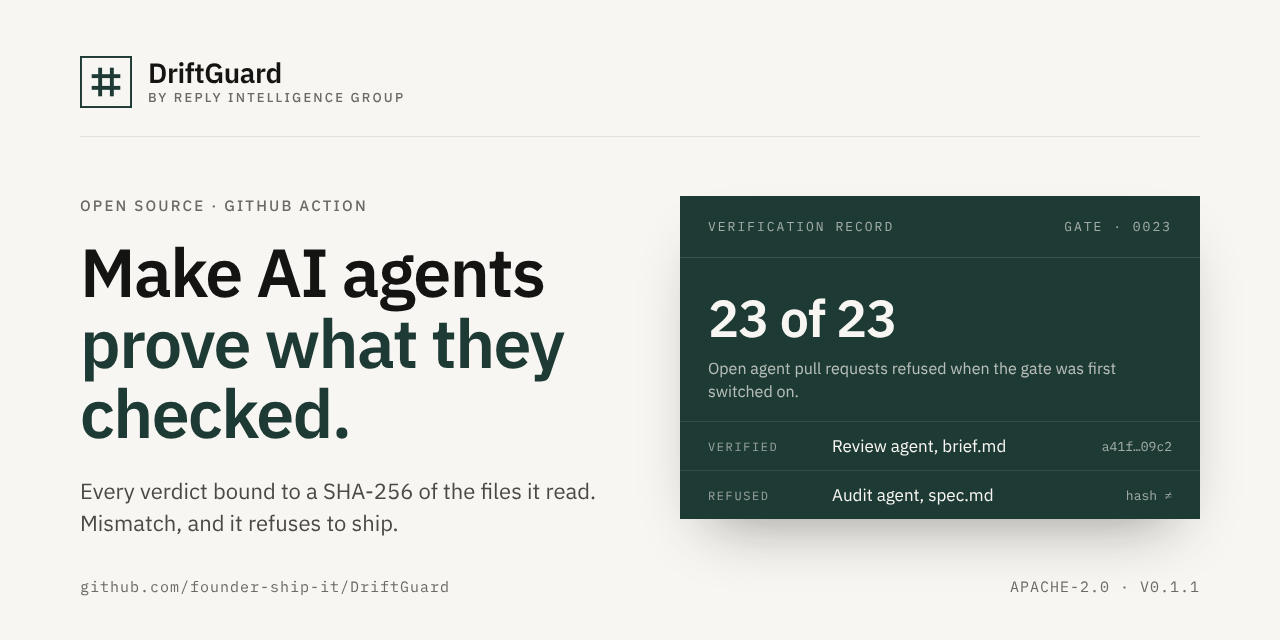
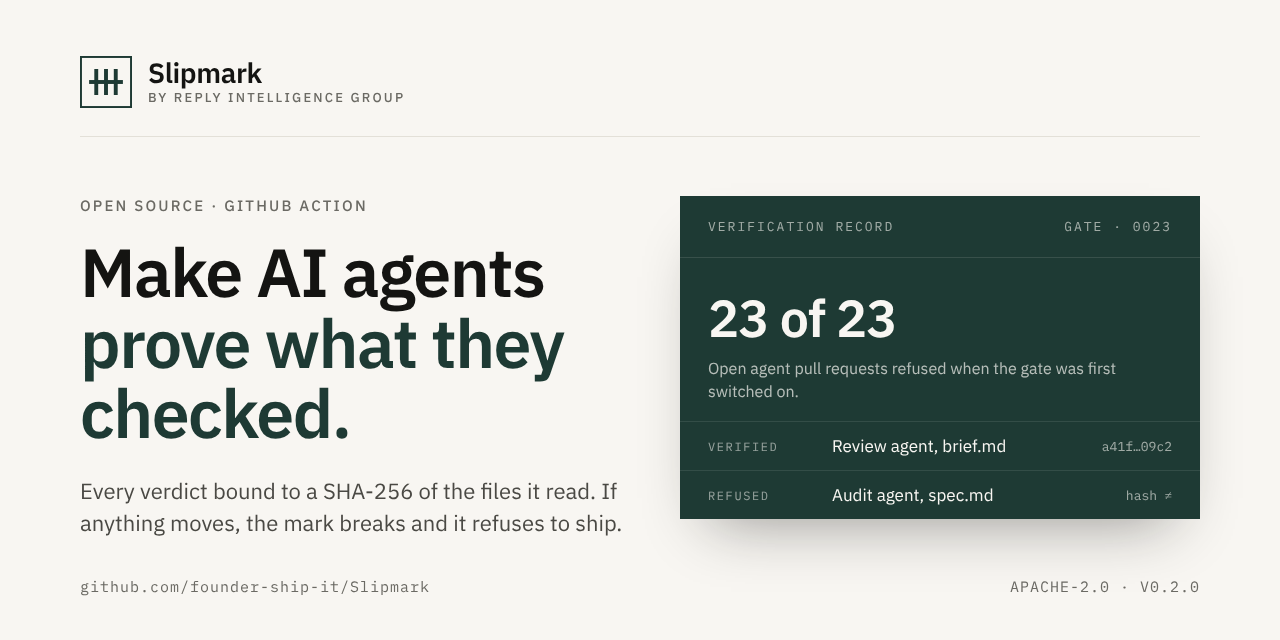
v0.2.0: rename DriftGuard to Slipmark

diff --git a/src/cli.ts b/src/cli.ts
@@ -1,10 +1,10 @@
 #!/usr/bin/env node
 /**
- * Minimal DriftGuard CLI.
+ * Minimal Slipmark CLI.
  *
- *   driftguard <pack.ts|pack.js> [--git <git-context.json>] [--prompts]
- *   driftguard attest --by <agent> --verdict <pass|fail> --subject <file> [--subject <file>...] [--note "..."] [--out <file>]
- *   driftguard verify [--dir .driftguard/attestations] [--require <file>...] [--json]
+ *   slipmark <pack.ts|pack.js> [--git <git-context.json>] [--prompts]
+ *   slipmark attest --by <agent> --verdict <pass|fail> --subject <file> [--subject <file>...] [--note "..."] [--out <file>]
+ *   slipmark verify [--dir .slipmark/attestations] [--require <file>...] [--json]
  *
  * Loads a pack module (default export OR a named *Pack export), runs every lock,
  * prints a summary, and (with --prompts) prints the repair prompt for each drift.
@@ -22,7 +22,7 @@ import { createAttestation, writeAttestation, defaultAttestationPath, verifyAtte
 import { existsSync } from "node:fs";
 
 function fail(msg: string): never {
-  console.error(`driftguard: ${msg}`);
+  console.error(`slipmark: ${msg}`);
   process.exit(2);
 }
 
@@ -55,15 +55,15 @@ function argVal(args: string[], flag: string): string | null {
   return i >= 0 ? (args[i + 1] ?? null) : null;
 }
 
-/** `driftguard bisect --range <range> --command <cmd> [--cwd <dir>]` */
+/** `slipmark bisect --range <range> --command <cmd> [--cwd <dir>]` */
 async function bisectMain(args: string[]): Promise<void> {
   const range = argVal(args, "--range");
   const command = argVal(args, "--command");
   const cwd = argVal(args, "--cwd") ?? process.cwd();
   if (!range || !command) {
-    fail('usage: driftguard bisect --range <git-range> --command "<probe cmd, exit 0 = pass>" [--cwd <dir>]');
+    fail('usage: slipmark bisect --range <git-range> --command "<probe cmd, exit 0 = pass>" [--cwd <dir>]');
   }
-  console.log(`\nDriftGuard bisect — range \`${range}\`\n  probe: ${command}\n`);
+  console.log(`\nSlipmark bisect — range \`${range}\`\n  probe: ${command}\n`);
   const result = await runGitBisect({ cwd, range: range!, command: command! });
   if (!result.firstFailingCommit) {
     console.log(`  ✓ no regression in this range (newest commit still passes). ${result.evaluated} probes.\n`);
@@ -76,8 +76,8 @@ async function bisectMain(args: string[]): Promise<void> {
 }
 
 /**
- * `driftguard dashboard <pack> [--git f] [--history h.json] [--project name] --out file.html`
- * or render existing history: `driftguard dashboard --from h.json --out file.html`
+ * `slipmark dashboard <pack> [--git f] [--history h.json] [--project name] --out file.html`
+ * or render existing history: `slipmark dashboard --from h.json --out file.html`
  */
 async function dashboardMain(args: string[]): Promise<void> {
   const out = argVal(args, "--out") ?? "dashboard.html";
@@ -89,7 +89,7 @@ async function dashboardMain(args: string[]): Promise<void> {
     data = JSON.parse(readFileSync(resolve(from), "utf8")) as DashboardData;
   } else {
     const packPath = args.find((a) => !a.startsWith("--"));
-    if (!packPath) fail("usage: driftguard dashboard <pack> [--history h.json] --out f.html  |  driftguard dashboard --from h.json --out f.html");
+    if (!packPath) fail("usage: slipmark dashboard <pack> [--history h.json] --out f.html  |  slipmark dashboard --from h.json --out f.html");
     const pack = await loadPack(packPath!);
     const run = runPack(pack, loadGit(argVal(args, "--git")));
     const summary = summariseRun(run, { project: project ?? pack.id });
@@ -117,16 +117,16 @@ function argVals(args: string[], flag: string): string[] {
   return out;
 }
 
-/** `driftguard attest --by <agent> --verdict <v> --subject <file>... [--note t] [--out f] [--dir d]` */
+/** `slipmark attest --by <agent> --verdict <v> --subject <file>... [--note t] [--out f] [--dir d]` */
 function attestMain(args: string[]): void {
   const by = argVal(args, "--by");
   const verdict = argVal(args, "--verdict");
   const subjects = argVals(args, "--subject");
   if (!by || !verdict || subjects.length === 0) {
-    fail('usage: driftguard attest --by <agent> --verdict <pass|fail> --subject <file> [--subject <file>...] [--note "..."] [--out <file>]');
+    fail('usage: slipmark attest --by <agent> --verdict <pass|fail> --subject <file> [--subject <file>...] [--note "..."] [--out <file>]');
   }
   const att = createAttestation({ by: by!, verdict: verdict!, subjects, note: argVal(args, "--note") ?? undefined });
-  const dir = resolve(argVal(args, "--dir") ?? ".driftguard/attestations");
+  const dir = resolve(argVal(args, "--dir") ?? ".slipmark/attestations");
   const out = argVal(args, "--out") ? resolve(argVal(args, "--out")!) : defaultAttestationPath(dir, att);
   writeAttestation(out, att);
   console.log(`\n  ${att.by} → "${att.verdict}" on ${att.subjects.length} file(s)`);
@@ -134,7 +134,7 @@ function attestMain(args: string[]): void {
   console.log(`  written → ${out}\n`);
 }
 
-/** `driftguard verify [--dir d] [--require <file>...] [--json]` */
+/** `slipmark verify [--dir d] [--require <file>...] [--json]` */
 function verifyMain(args: string[]): void {
   const report = verifyAttestations({
     dir: argVal(args, "--dir") ?? undefined,
@@ -145,7 +145,7 @@ function verifyMain(args: string[]): void {
     process.exit(report.ok ? 0 : 1);
   }
   const passed = report.results.filter((r) => r.status === "verified").length;
-  console.log(`\nDriftGuard verify: ${passed} verified · ${report.failures.length} refused\n`);
+  console.log(`\nSlipmark verify: ${passed} verified · ${report.failures.length} refused\n`);
   for (const r of report.results) {
     const icon = r.status === "verified" ? "✓" : "✗";
     console.log(`  ${icon} ${r.status.padEnd(20)} ${r.message}`);
@@ -179,7 +179,7 @@ async function main() {
   }
 
   const packPath = args.find((a) => !a.startsWith("--"));
-  if (!packPath) fail("usage: driftguard <pack> [--git <file.json>] [--prompts] [--emit <dir>]  |  driftguard verify  |  driftguard attest ...  |  driftguard bisect --range <r> --command <cmd>");
+  if (!packPath) fail("usage: slipmark <pack> [--git <file.json>] [--prompts] [--emit <dir>]  |  slipmark verify  |  slipmark attest ...  |  slipmark bisect --range <r> --command <cmd>");
 
   const gitIdx = args.indexOf("--git");
   const gitPath = gitIdx >= 0 ? (args[gitIdx + 1] ?? null) : null;
@@ -190,7 +190,7 @@ async function main() {
   const pack = await loadPack(packPath!);
   const run = runPack(pack, loadGit(gitPath));
 
-  console.log(`\nDriftGuard — pack \`${run.packId}\``);
+  console.log(`\nSlipmark — pack \`${run.packId}\``);
   console.log(`  ${run.passed} passed · ${run.drifted} drifted · ${run.errored} errored (of ${run.total})\n`);
 
   for (const o of run.outcomes) {

diff --git a/src/engine/repairPlan.ts b/src/engine/repairPlan.ts
@@ -57,7 +57,7 @@ function modeHeadline(mode: PromptMode): string {
 function behaviouralRequirements(mode: PromptMode): string[] {
   const shared = [
     "Stay inside the ranked likely-cause area; do not refactor unrelated modules.",
-    "Do not modify DriftGuard lock code, fixtures, or assertions to force a pass.",
+    "Do not modify Slipmark lock code, fixtures, or assertions to force a pass.",
     "Where analysis labels a field 'likely', 'probable', or 'inferred', treat it as a hypothesis — confirm before trusting it.",
   ];
   if (mode === "suggest_patch") {
@@ -72,7 +72,7 @@ function behaviouralRequirements(mode: PromptMode): string[] {
   }
   return [
     "DO NOT edit product code yet. DO NOT apply blind fixes.",
-    "Do not modify DriftGuard lock code, fixtures, or assertions to force a pass.",
+    "Do not modify Slipmark lock code, fixtures, or assertions to force a pass.",
     "Treat the candidate areas below as hypotheses only — confidence is low and ranked files are unavailable.",
     "Produce a diagnosis report, not a patch.",
     "Recommend the smallest next step (targeted experiment, logging, or rollback candidate), not a full change.",
@@ -95,7 +95,7 @@ function outputRequirements(mode: PromptMode): string[] {
       "Root cause analysis (1–3 paragraphs).",
       "Proposed diffs (exact, per file), with reasoning per hunk.",
       "List of files/modules intentionally NOT changed and why.",
-      "Verification steps: which DriftGuard locks will pass after the change and why.",
+      "Verification steps: which Slipmark locks will pass after the change and why.",
       "Rollback plan in two lines.",
     ];
   }
@@ -283,7 +283,7 @@ export function buildRepairPrompt(args: {
       : [];
 
   const header = [
-    `# DriftGuard repair prompt — ${lock.key}`,
+    `# Slipmark repair prompt — ${lock.key}`,
     "",
     `Lock: **${lock.name}** (scope: \`${lock.scope}\`)`,
     `Mode: \`${mode}\` — ${modeHeadline(mode)}`,
@@ -371,7 +371,7 @@ export function buildRepairPrompt(args: {
     "",
     "## 10. Verification — rerun locks",
     "",
-    "Run these DriftGuard locks; each must return status `pass`:",
+    "Run these Slipmark locks; each must return status `pass`:",
     "",
     rerunLines.join("\n"),
     "",
@@ -381,7 +381,7 @@ export function buildRepairPrompt(args: {
     "",
     "---",
     "",
-    "DriftGuard does not apply this prompt automatically. Any code change is the responsibility of",
+    "Slipmark does not apply this prompt automatically. Any code change is the responsibility of",
     "the engineer or agent acting on it. Lock logic, fixtures, and assertions must not be edited to",
     "force a pass.",
     "",

diff --git a/src/integrations/codingAgent.ts b/src/integrations/codingAgent.ts
@@ -1,7 +1,7 @@
 /**
  * Coding-agent integration.
  *
- * DriftGuard's headline differentiator: when a lock drifts, hand a coding agent
+ * Slipmark's headline differentiator: when a lock drifts, hand a coding agent
  * (Cursor, Claude Code, Copilot, etc.) a ready-to-run repair prompt — and the
  * guard rails for how to act on it safely.
  *
@@ -38,7 +38,7 @@ export function repairArtifactsFor(run: VerificationRun): RepairArtifact[] {
 /** An index file linking all repair artifacts in a run. */
 export function repairIndexDoc(run: VerificationRun, artifacts: RepairArtifact[]): string {
   const lines = [
-    `# DriftGuard repairs — pack \`${run.packId}\``,
+    `# Slipmark repairs — pack \`${run.packId}\``,
     "",
     `${run.passed} passed · ${run.drifted} drifted · ${run.errored} errored (of ${run.total}).`,
     "",
@@ -64,22 +64,22 @@ export function claudeCodeCommandFor(promptPath: string): string {
 }
 
 /**
- * A rules doc to drop into a repo (e.g. `.cursor/rules/driftguard.md` or
- * `CLAUDE.md`) so any coding agent treats DriftGuard repair prompts safely.
- * Encodes the non-negotiables that make DriftGuard trustworthy.
+ * A rules doc to drop into a repo (e.g. `.cursor/rules/slipmark.md` or
+ * `CLAUDE.md`) so any coding agent treats Slipmark repair prompts safely.
+ * Encodes the non-negotiables that make Slipmark trustworthy.
  */
 export function agentRulesDoc(): string {
   return [
-    "# DriftGuard — rules for coding agents",
+    "# Slipmark — rules for coding agents",
     "",
-    "When you are given a file named `*.repair.md` produced by DriftGuard, follow these rules:",
+    "When you are given a file named `*.repair.md` produced by Slipmark, follow these rules:",
     "",
     "1. **Respect the declared mode.**",
     "   - `investigate_first` (low confidence): DO NOT edit product code. Produce a diagnosis,",
     "     not a patch. Ranked files are intentionally withheld — do not invent them.",
     "   - `minimal_fix` (medium): apply the smallest reversible change in the top-ranked area only.",
     "   - `suggest_patch` (high): you may propose concrete diffs, but do not auto-apply them.",
-    "2. **Never edit DriftGuard locks, fixtures, or assertions to make a failing lock pass.**",
+    "2. **Never edit Slipmark locks, fixtures, or assertions to make a failing lock pass.**",
     "   That is gaming the test, not fixing the bug.",
     "3. **Stay inside the ranked likely-cause area.** Do not refactor unrelated modules.",
     "4. **Treat anything labelled 'likely' / 'probable' / 'inferred' as a hypothesis** — confirm",

diff --git a/src/engine/confidence.ts b/src/engine/confidence.ts
@@ -1,5 +1,5 @@
 /**
- * Structured confidence scoring + the honesty guarantees that make DriftGuard
+ * Structured confidence scoring + the honesty guarantees that make Slipmark
  * different: it refuses to present pattern heuristics as proof.
  *
  *   - Confidence is hard-capped at 0.40 when there is no git diff and no
@@ -144,7 +144,7 @@ export function explainConfidence(params: {
 
   if (!hasCausalEvidence && !hasExecutionTrace) {
     return [
-      "Confidence is capped at 40% because DriftGuard had no git diff, no execution trace, and no bisected commit for this run.",
+      "Confidence is capped at 40% because Slipmark had no git diff, no execution trace, and no bisected commit for this run.",
       topSignatureKey
         ? `A failure signature (\`${topSignatureKey}\`) matched the assertion pattern, but signature heuristics alone are not treated as proof.`
         : "No known failure signature matched — treat the candidate modules as hypotheses only.",
@@ -153,7 +153,7 @@ export function explainConfidence(params: {
 
   if (!hasCausalEvidence) {
     return [
-      "Confidence is capped at 69% (medium) because DriftGuard has an execution trace of the failing mechanism but no git diff or bisected commit linking it to a specific change.",
+      "Confidence is capped at 69% (medium) because Slipmark has an execution trace of the failing mechanism but no git diff or bisected commit linking it to a specific change.",
       "The trace tells us what went wrong; it does not yet tell us which change caused it.",
     ].join(" ");
   }

diff --git a/test/integration.test.ts b/test/integration.test.ts
@@ -12,7 +12,7 @@ test("coding-agent: a drift produces a repair artifact for the failing lock", ()
   const a = artifacts[0]!;
   assert.equal(a.lockKey, "shop.latest_intent_wins");
   assert.equal(a.filename, "shop.latest_intent_wins.repair.md");
-  assert.match(a.content, /DriftGuard repair prompt/);
+  assert.match(a.content, /Slipmark repair prompt/);
   assert.ok(a.promptMode.length > 0);
 });
 
@@ -27,11 +27,11 @@ test("coding-agent: the index doc links every artifact", () => {
 test("coding-agent: the rules doc encodes the non-negotiable safety rails", () => {
   const rules = agentRulesDoc();
   assert.match(rules, /investigate_first/);
-  assert.match(rules, /Never edit DriftGuard locks/i);
+  assert.match(rules, /Never edit Slipmark locks/i);
   assert.match(rules, /re-run the locks/i);
 });
 
 test("coding-agent: the Claude Code invocation helper is shaped correctly", () => {
-  const cmd = claudeCodeCommandFor(".driftguard/shop.latest_intent_wins.repair.md");
-  assert.equal(cmd, 'claude -p "$(cat .driftguard/shop.latest_intent_wins.repair.md)"');
+  const cmd = claudeCodeCommandFor(".slipmark/shop.latest_intent_wins.repair.md");
+  assert.equal(cmd, 'claude -p "$(cat .slipmark/shop.latest_intent_wins.repair.md)"');
 });

diff --git a/src/dashboard/render.ts b/src/dashboard/render.ts
@@ -98,7 +98,7 @@ export function renderDashboardHtml(data: DashboardData): string {
 
   return `<!doctype html>
 <html lang="en"><head><meta charset="utf-8"><meta name="viewport" content="width=device-width, initial-scale=1">
-<title>DriftGuard — ${esc(data.project)}</title>
+<title>Slipmark — ${esc(data.project)}</title>
 <style>
   :root{font-family:-apple-system,BlinkMacSystemFont,"Segoe UI",Roboto,Helvetica,Arial,sans-serif}
   *{box-sizing:border-box}
@@ -161,6 +161,6 @@ export function renderDashboardHtml(data: DashboardData): string {
     <tbody>${history || '<tr><td colspan="5" class="muted">No runs.</td></tr>'}</tbody>
   </table></div>
 
-  <footer>DriftGuard — part of Reply Intelligence Group. Static preview; not connected to a backend.</footer>
+  <footer>Slipmark — part of Reply Intelligence Group. Static preview; not connected to a backend.</footer>
 </div></body></html>`;
 }

diff --git a/src/attest/attestation.ts b/src/attest/attestation.ts
@@ -17,7 +17,7 @@ import { createHash } from "node:crypto";
 import { existsSync, readFileSync, readdirSync, statSync, writeFileSync, mkdirSync } from "node:fs";
 import { dirname, isAbsolute, join, relative, resolve, sep } from "node:path";
 
-export const ATTESTATION_SCHEMA = "driftguard/attestation@1";
+export const ATTESTATION_SCHEMA = "slipmark/attestation@1";
 
 /** Verdicts that clear the gate. Anything else blocks. */
 export const PASSING_VERDICTS = ["pass", "cleared"] as const;
@@ -178,7 +178,7 @@ export function verifyAttestations(opts: {
   require?: string[];
 }): VerifyReport {
   const root = resolve(opts.root ?? process.cwd());
-  const dir = resolve(root, opts.dir ?? ".driftguard/attestations");
+  const dir = resolve(root, opts.dir ?? ".slipmark/attestations");
   const results: CheckResult[] = [];
   const covered = new Set<string>();
   const files = listAttestationFiles(dir);

diff --git a/packs/demo-shop/pack.ts b/packs/demo-shop/pack.ts
@@ -1,7 +1,7 @@
 /**
  * Demo pack: "ShopAssist" — an e-commerce support assistant.
  *
- * This pack carries ALL the domain knowledge. The DriftGuard engine imports
+ * This pack carries ALL the domain knowledge. The Slipmark engine imports
  * nothing from here; it just receives this object. Swapping this for the ReplyOS
  * pack (or any other) is the entire extensibility story.
  */
@@ -43,7 +43,7 @@ export const demoShopPack: Pack = definePack({
   baseConstraints: [
     "Do not change the support assistant's tone or break existing channel flows",
     "Do not introduce or auto-fix unrelated areas of the codebase",
-    "Do not change DriftGuard lock logic to make a failing lock pass",
+    "Do not change Slipmark lock logic to make a failing lock pass",
   ],
   scopeConstraints: {
     ai: [

diff --git a/packs/demo-shop/shopAssist.ts b/packs/demo-shop/shopAssist.ts
@@ -1,10 +1,10 @@
 /**
  * ShopAssist — a tiny e-commerce support reply composer used as the "product
  * under test" for the demo pack. This is intentionally NOT ReplyOS: it proves
- * the DriftGuard engine works on an unrelated domain with no engine changes.
+ * the Slipmark engine works on an unrelated domain with no engine changes.
  *
  * It contains ONE deliberately planted regression (see PLANTED_BUG) so the demo
- * can show DriftGuard catching and diagnosing a real behavioural drift.
+ * can show Slipmark catching and diagnosing a real behavioural drift.
  */
 
 export interface Turn {

diff --git a/test/dashboard.test.ts b/test/dashboard.test.ts
@@ -58,7 +58,7 @@ test("dashboard: renders self-contained HTML and escapes untrusted content", () 
   assert.match(html, /<!doctype html>/i);
   assert.match(html, /my-product/);
   assert.match(html, /x\.lock/);
-  assert.match(html, /DriftGuard/);
+  assert.match(html, /Slipmark/);
   // Untrusted repair-prompt content must be escaped, not injected raw.
   assert.ok(!html.includes("<script>alert(1)"), "must not inject raw script");
   assert.match(html, /&lt;script&gt;alert\(1\)/);

diff --git a/test/attestation.test.ts b/test/attestation.test.ts
@@ -21,7 +21,7 @@ function repo(): string {
   return root;
 }
 
-const DIR = ".driftguard/attestations";
+const DIR = ".slipmark/attestations";
 
 function attest(root: string, subjects: string[], verdict = "pass", by = "security-audit") {
   const att = createAttestation({ root, subjects, verdict, by, now: new Date("2026-10-17T09:00:00Z") });

diff --git a/src/types.ts b/src/types.ts
@@ -1,5 +1,5 @@
 /**
- * DriftGuard — core domain-agnostic types.
+ * Slipmark — core domain-agnostic types.
  *
  * The engine knows NOTHING about any specific product. All domain knowledge
  * (signatures, module maps, constraints, fixtures) is supplied by a `Pack`.
